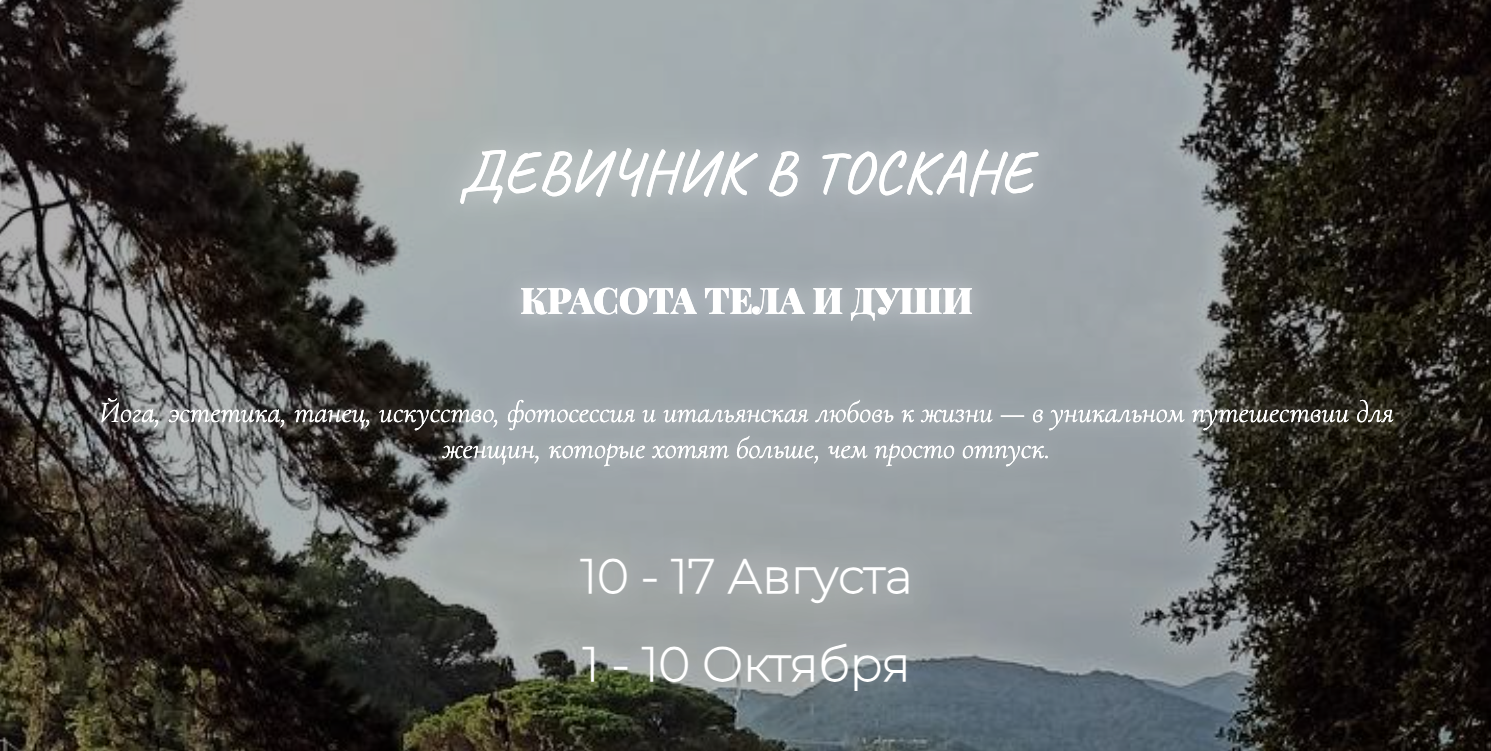
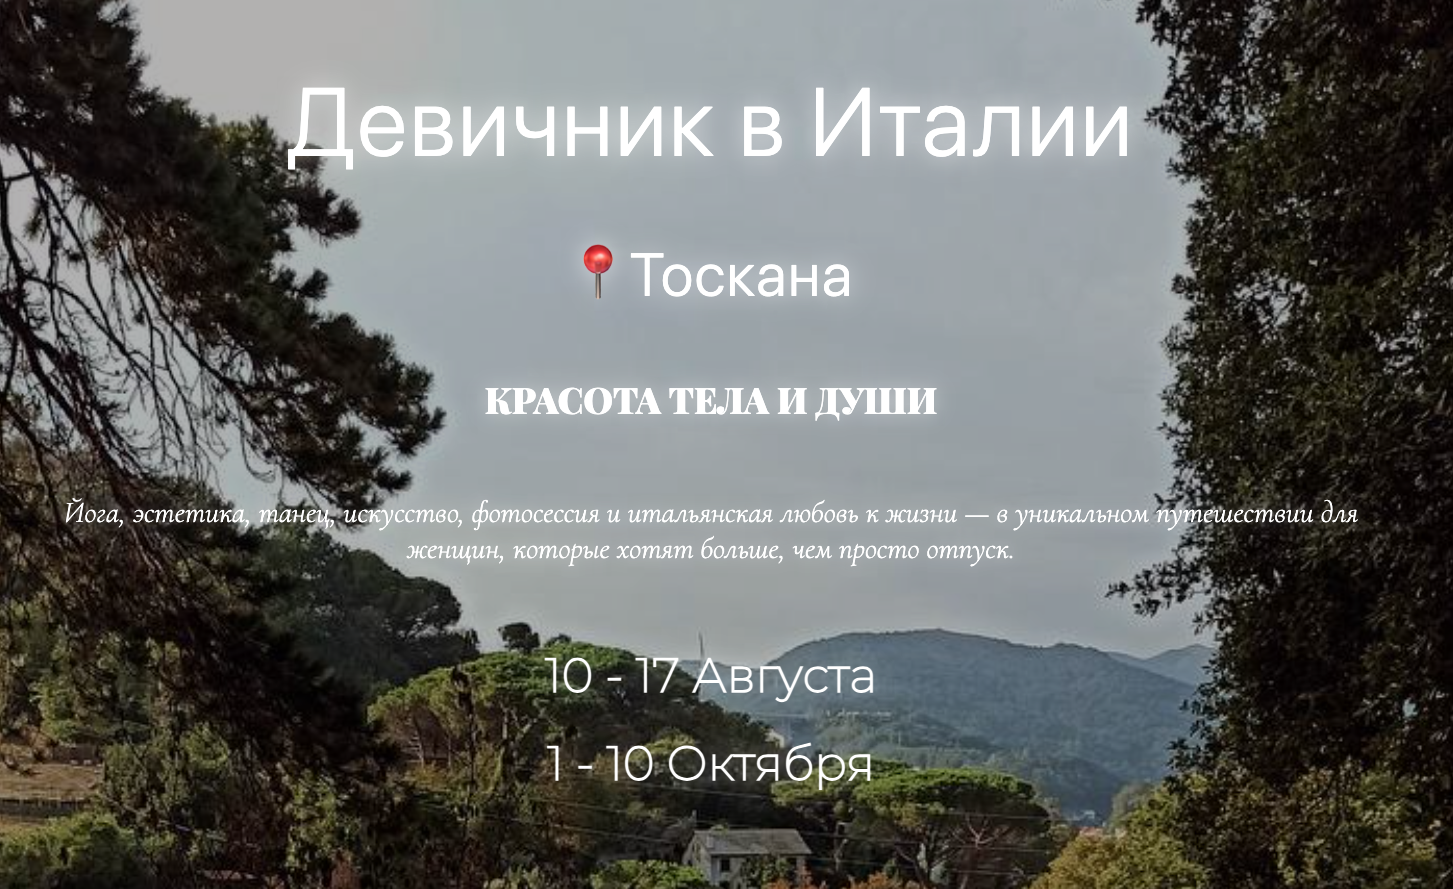
update OG

diff --git a/components/sections/hero-section.tsx b/components/sections/hero-section.tsx
@@ -9,7 +9,7 @@ const HeroSection = () => {
       id="hero"
       className="py-16 md:py-30 px-4 bg-stone-200   text-center"
     >
-      <div className="max-w-[1500px] mx-auto flex flex-col  items-center justify-center relative -mt-14">
+      <div className="max-w-[1500px] mx-auto flex flex-col   items-center justify-center relative -mt-14">
         <div className="w-full h-[90vh] relative rounded-xl overflow-hidden">
           <img
             src="/bg2.jpg"
@@ -19,14 +19,25 @@ const HeroSection = () => {
           <div className="absolute inset-0 bg-black/30" />
         </div>
 
-        <div className="absolute md:top-12 mt-20 text-white   flex flex-col items-center justify-center md:gap-[4vh]  w-full p-4">
+        <div className="absolute md:top-12 mt-4 text-white   flex flex-col items-center justify-center md:gap-[4vh] gap-[1vh] w-full py-5">
           <motion.h1
             initial={{ opacity: 0, y: 50 }}
             animate={{ opacity: 1, y: 0 }}
             transition={{ duration: 1, ease: "easeOut" }}
-            className="text-5xl font-caveat md:text-3xl lg:text-6xl font-light mb-6 tracking-wide drop-shadow-[0_0_12px_rgba(255,255,255,0.65)]"
+            className="text-4xl  md:text-6xl lg:text-8xl font-light
+           mb-6 tracking-wide drop-shadow-[0_0_12px_rgba(255,255,255,0.65)]"
           >
-            ДЕВИЧНИК В ТОСКАНЕ
+            Девичник в Италии
+          </motion.h1>
+
+          <motion.h1
+            initial={{ opacity: 0, y: 50 }}
+            animate={{ opacity: 1, y: 0 }}
+            transition={{ duration: 1, ease: "easeOut" }}
+            className="text-xl  md:text-2xl lg:text-6xl font-light
+           mb-6 tracking-wide drop-shadow-[0_0_12px_rgba(255,255,255,0.65)]"
+          >
+            📍Тоскана
           </motion.h1>
 
           <h2 className="text-xl font-playfair md:text-2xl lg:text-4xl drop-shadow-[0_0_10px_rgba(255,255,255,0.5)]">
@@ -44,7 +55,7 @@ const HeroSection = () => {
             чем просто отпуск.
           </motion.p>
 
-          <div className="mt-8 flex flex-col justify-center items-center gap-10">
+          <div className="mt-8 flex flex-col justify-center items-center gap-3 md:gap-10">
             <h1 className="text-xl font-montserrat md:text-5xl font-bold drop-shadow-[0_0_15px_rgba(255,255,255,0.6)]">
               10 - 17 Августа
             </h1>
@@ -59,7 +70,7 @@ const HeroSection = () => {
             spy={true}
             duration={500}
             offset={100}
-            className="md:w-1/4 w-fit mb-16 md:mb-0 cursor-pointer mt-14 bg-green-100 rounded-2xl hover:bg-fuchsia-100 text-amber-950 px-7 py-2 text-sm font-medium tracking-wider uppercase transition-transform hover:scale-105"
+            className="md:w-1/4 w-fit  cursor-pointer mt-5 md:mt-14 bg-green-100 rounded-2xl hover:bg-fuchsia-100 text-amber-950 px-7 py-2 text-sm font-medium tracking-wider uppercase transition-transform hover:scale-105"
           >
             Узнать больше
           </Link>

diff --git a/app/layout.tsx b/app/layout.tsx
@@ -1,52 +1,4 @@
-import type { Metadata } from "next";
-import "./globals.css";
-
-export const metadata = {
-  title: "ДЕВИЧНИК В ТОСКАНЕ",
-  description: "КРАСОТА ТЕЛА И ДУШИ",
-
-  openGraph: {
-    type: "website",
-    locale: "en_US",
-    url: "https://womens-retreat.vercel.app",
-    title: "ДЕВИЧНИК В ТОСКАНЕ",
-    description: "КРАСОТА ТЕЛА И ДУШИ",
-    siteName: "ДЕВИЧНИК В ТОСКАНЕ",
-    images: [
-      {
-        url: "https://womens-retreat.vercel.app/OG.jpg",
-        width: 1200,
-        height: 630,
-        alt: "ДЕВИЧНИК В ТОСКАНЕ",
-      },
-    ],
-  },
-  twitter: {
-    card: "summary_large_image",
-    title: "ДЕВИЧНИК В ТОСКАНЕ",
-    description: "КРАСОТА ТЕЛА И ДУШИ",
-    images: ["https://womens-retreat.vercel.app/OG.jpg"],
-  },
-
-  metadataBase: new URL("https://womens-retreat.vercel.app"),
-  robots: {
-    index: true,
-    follow: true,
-  },
-  viewport: {
-    width: "device-width",
-    initialScale: 1,
-    maximumScale: 1,
-  },
-
-  other: {
-    "og:image:width": "1200",
-    "og:image:height": "630",
-    "og:image:type": "image/jpeg",
-    "og:image:secure_url": "https://womens-retreat.vercel.app/OG.jpg",
-    "og:image:alt": "ДЕВИЧНИК В ТОСКАНЕ",
-  },
-};
+import Head from "next/head";
 
 export default function RootLayout({
   children,
@@ -54,7 +6,30 @@ export default function RootLayout({
   children: React.ReactNode;
 }>) {
   return (
-    <html lang="en">
+    <html lang="ru">
+      <Head>
+        <meta property="og:title" content="ДЕВИЧНИК В ИТАЛИИ" />
+        <meta property="og:description" content="КРАСОТА ТЕЛА И ДУШИ" />
+        <meta property="og:type" content="website" />
+        <meta property="og:url" content="https://womens-retreat.vercel.app" />
+        <meta
+          property="og:image"
+          content="https://womens-retreat.vercel.app/OG.jpg"
+        />
+        <meta property="og:image:width" content="1200" />
+        <meta property="og:image:height" content="630" />
+        <meta property="og:image:type" content="image/jpeg" />
+        <meta property="og:image:alt" content="ДЕВИЧНИК В ИТАЛИИ" />
+
+        <meta name="twitter:card" content="summary_large_image" />
+        <meta name="twitter:title" content="ДЕВИЧНИК В ИТАЛИИ" />
+        <meta name="twitter:description" content="КРАСОТА ТЕЛА И ДУШИ" />
+        <meta
+          name="twitter:image"
+          content="https://womens-retreat.vercel.app/OG.jpg"
+        />
+        <meta name="twitter:image:alt" content="ДЕВИЧНИК В ИТАЛИИ" />
+      </Head>
       <body>{children}</body>
     </html>
   );
